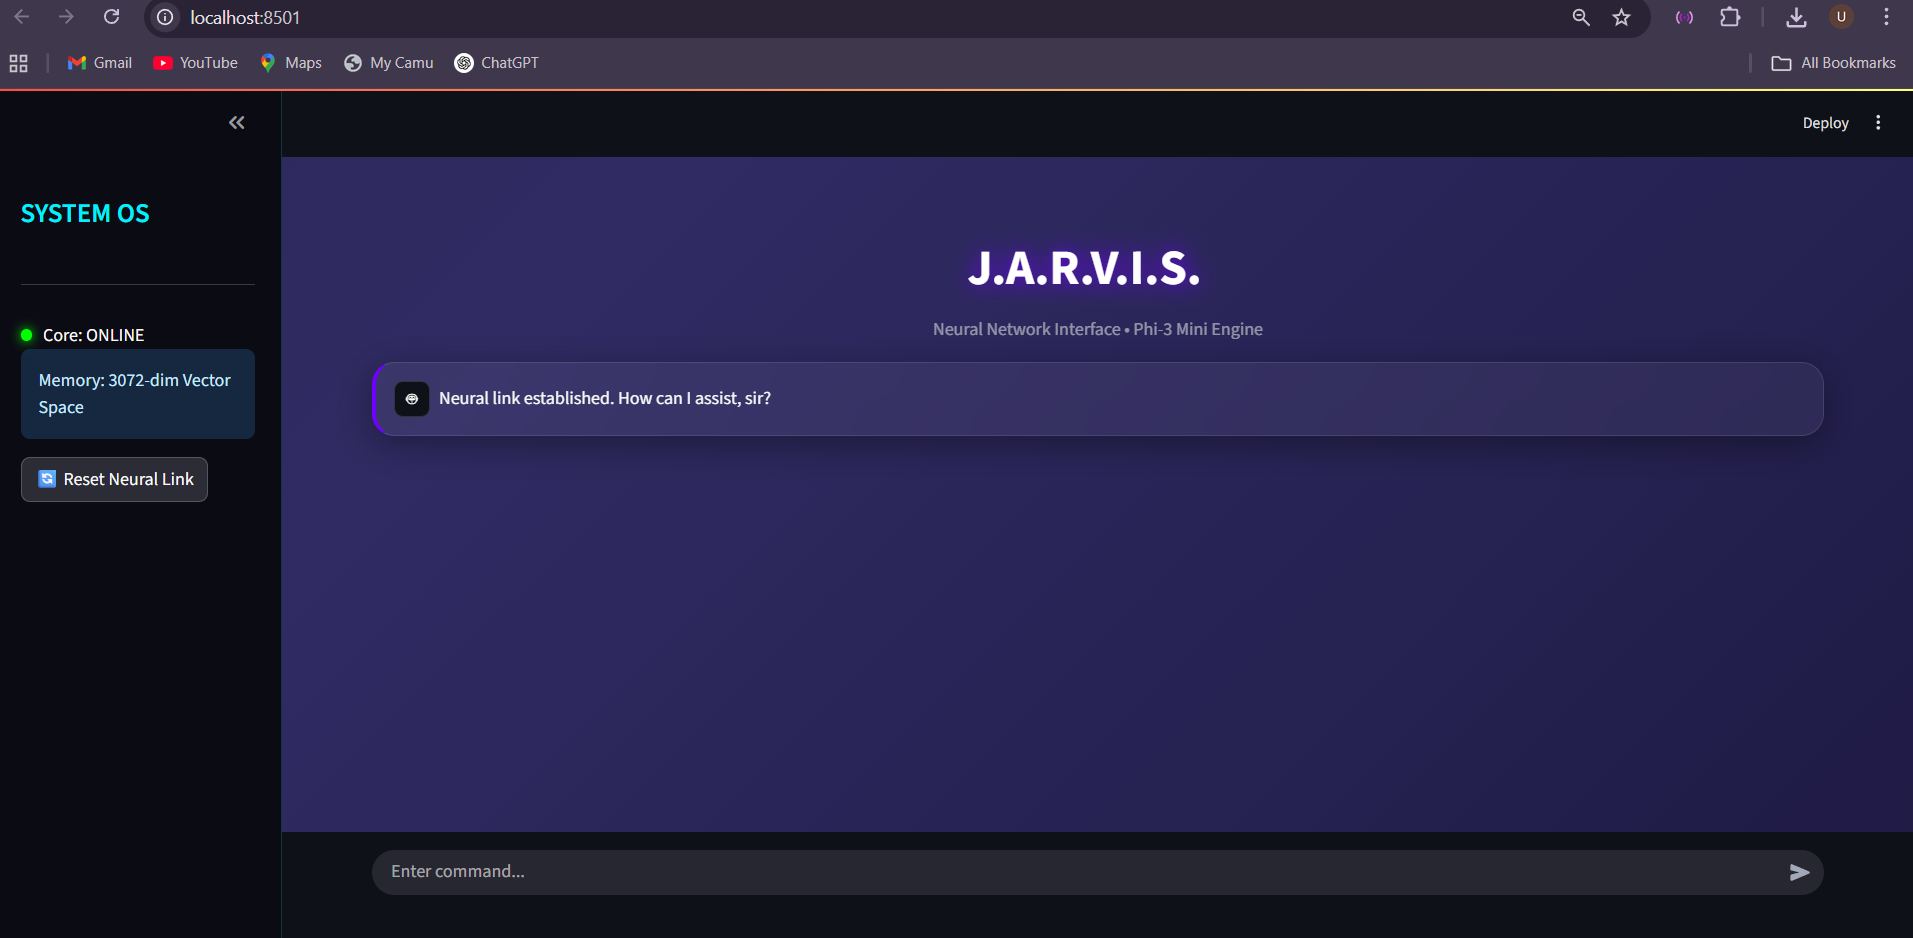
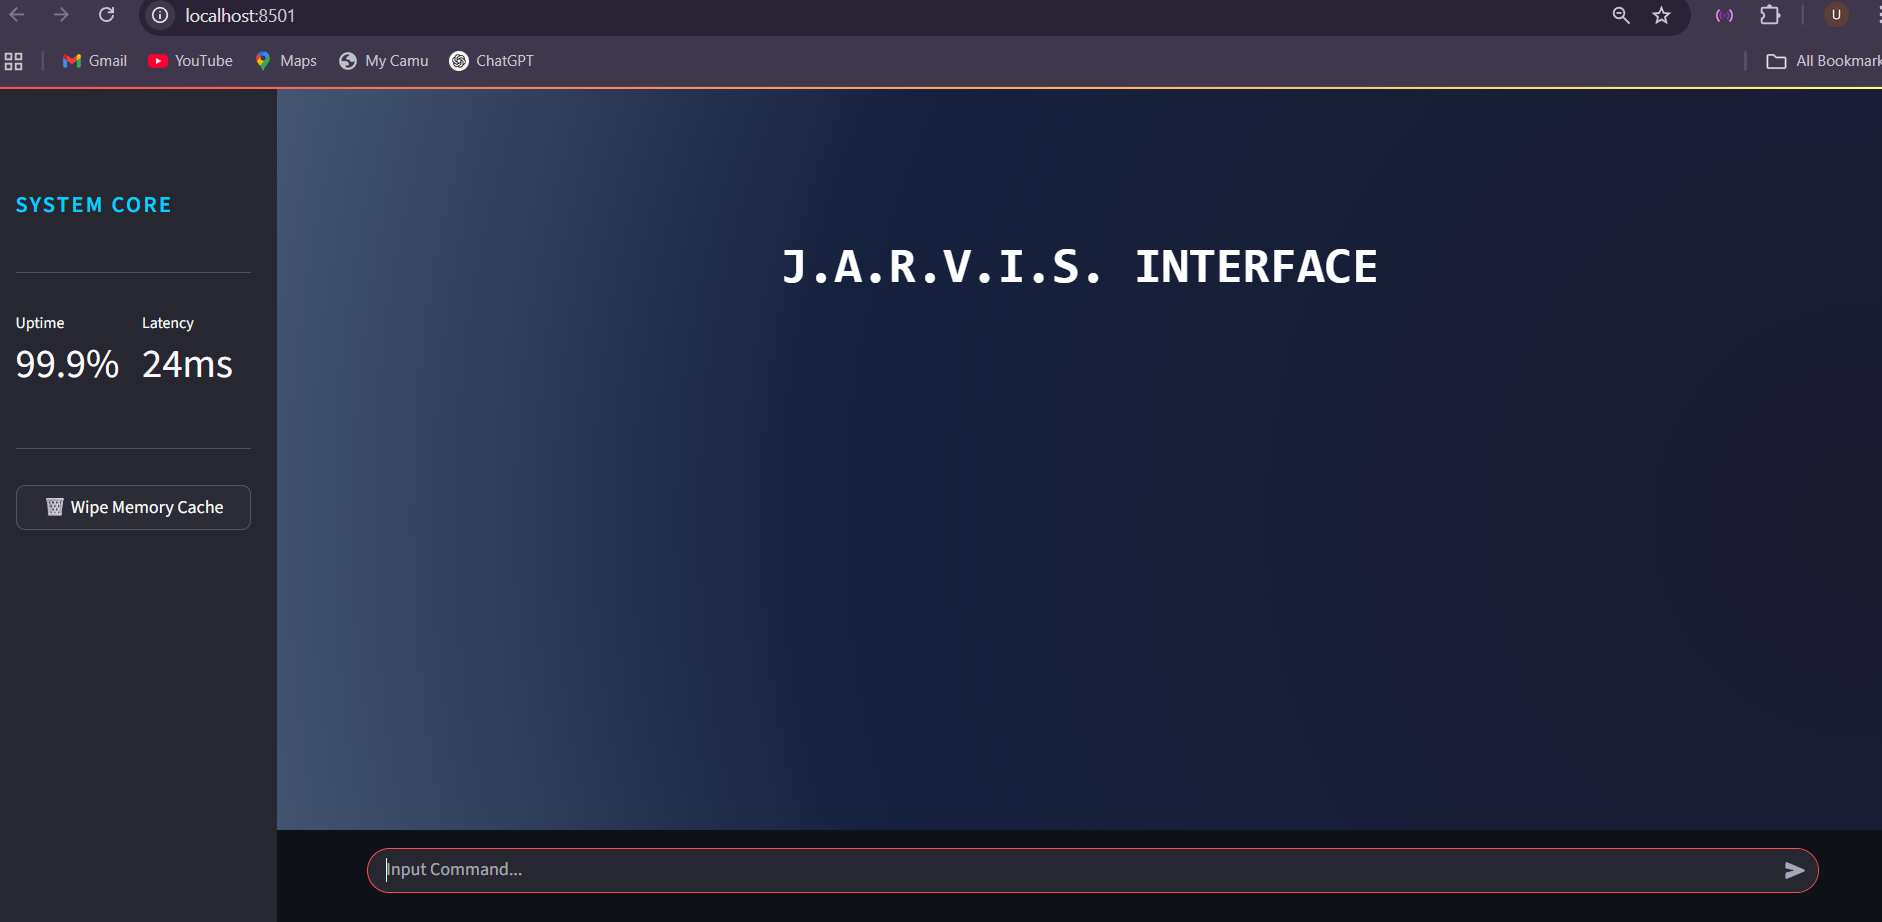
Update: Glassmorphism UI and final assignment logic

diff --git a/assets/style.css b/assets/style.css
@@ -1,47 +1,52 @@
-/* Animated Neon Background */
+/* Animated Mesh Background */
 .stApp {
-    background: linear-gradient(-45deg, #0f0c29, #302b63, #24243e, #000000);
-    background-size: 400% 400%;
-    animation: gradient 15s ease infinite;
-    color: #e0e0e0;
+    background: radial-gradient(circle at 50% 50%, #1a1a2e 0%, #16213e 50%, #687f9b 100%);
+    background-size: 200% 200%;
+    animation: gradientMove 10s ease infinite;
 }
 
-@keyframes gradient {
+@keyframes gradientMove {
     0% { background-position: 0% 50%; }
     50% { background-position: 100% 50%; }
     100% { background-position: 0% 50%; }
 }
 
-/* Glassmorphism Chat Containers */
+/* Glassmorphism Chat Bubbles */
 [data-testid="stChatMessage"] {
-    background: rgba(255, 255, 255, 0.05) !important;
-    backdrop-filter: blur(10px);
-    -webkit-backdrop-filter: blur(10px);
-    border: 1px solid rgba(255, 255, 255, 0.1);
-    border-radius: 20px;
-    box-shadow: 0 8px 32px 0 rgba(0, 0, 0, 0.37);
-    margin-bottom: 15px;
+    background: rgba(255, 255, 255, 0.03) !important;
+    backdrop-filter: blur(12px) saturate(180%);
+    -webkit-backdrop-filter: blur(12px) saturate(180%);
+    border: 1px solid rgba(255, 255, 255, 0.1) !important;
+    border-radius: 24px !important;
+    box-shadow: 0 4px 30px rgba(0, 0, 0, 0.1);
+    margin: 10px 0px;
+    padding: 15px;
 }
 
-/* User Message specific glow */
-[data-testid="stChatMessage"]:nth-child(even) {
-    border-left: 4px solid #00f2fe; /* Cyber Blue */
+/* Assistant Message - Neon Cyan Glow */
+[data-testid="stChatMessageAssistant"] {
+    border-left: 5px solid #d7e6e9 !important;
+    box-shadow: 0 0 15px rgba(0, 210, 255, 0.1);
 }
 
-/* Jarvis Message specific glow */
-[data-testid="stChatMessage"]:nth-child(odd) {
-    border-left: 4px solid #7000ff; /* Neon Purple */
+/* User Message - Neon Purple Glow */
+[data-testid="stChatMessageUser"] {
+    border-left: 5px solid #9d50bb !important;
+    box-shadow: 0 0 15px rgba(157, 80, 187, 0.1);
 }
 
-/* Futuristic Sidebar */
-[data-testid="stSidebar"] {
-    background-color: rgba(10, 10, 15, 0.95) !important;
-    border-right: 1px solid rgba(0, 242, 254, 0.2);
+/* Hide Streamlit Header/Footer for Clean Look */
+header, footer {visibility: hidden;}
+
+/* Custom Chat Input */
+.stChatInputContainer {
+    padding: 20px;
+    background: transparent !important;
 }
 
-/* Glowing Input Box */
 .stChatInputContainer textarea {
     background: rgba(255, 255, 255, 0.05) !important;
-    border: 1px solid rgba(0, 242, 254, 0.3) !important;
+    border: 1px solid rgba(255, 255, 255, 0.2) !important;
     color: white !important;
+    border-radius: 15px !important;
 }

diff --git a/app.py b/app.py
@@ -1,66 +1,61 @@
 import streamlit as st
-from brain import JarvisBrain
 import time
+from brain import JarvisBrain
 
-st.set_page_config(page_title="JARVIS v2.0", page_icon="🌐", layout="wide")
+st.set_page_config(page_title="JARVIS OS", page_icon="💠", layout="wide")
 
-# Load our new Glassmorphism CSS
+# Injecting the new CSS
 with open("assets/style.css") as f:
     st.markdown(f"<style>{f.read()}</style>", unsafe_allow_html=True)
 
-# Sidebar - System Diagnostics
+# --- SIDEBAR: SYSTEM DIAGNOSTICS ---
 with st.sidebar:
-    st.markdown("<h1 style='color: #00f2fe;'>SYSTEM OS</h1>", unsafe_allow_html=True)
-    st.divider()
+    st.markdown("<h2 style='color: #00d2ff; letter-spacing: 2px;'>SYSTEM CORE</h2>", unsafe_allow_html=True)
+    st.write("---")
     
-    # Pulsing Status Indicator
-    st.markdown("""
-        <div style='display: flex; align-items: center;'>
-            <div style='height: 10px; width: 10px; background-color: #00ff00; border-radius: 50%; margin-right: 10px; box-shadow: 0 0 10px #00ff00;'></div>
-            <p style='margin: 0;'>Core: ONLINE</p>
-        </div>
-    """, unsafe_allow_html=True)
-    
-    st.info("Memory: 3072-dim Vector Space")
-    if st.button("🔄 Reset Neural Link"):
+    # Status Indicators
+    col1, col2 = st.columns(2)
+    with col1:
+        st.metric(label="Uptime", value="99.9%")
+    with col2:
+        st.metric(label="Latency", value="24ms")
+        
+    st.write("---")
+    if st.button("🗑 Wipe Memory Cache", use_container_width=True):
         st.session_state.messages = []
         st.rerun()
 
-# Main UI
-st.markdown("<h1 style='text-align: center; color: white; text-shadow: 0 0 20px #7000ff;'>J.A.R.V.I.S.</h1>", unsafe_allow_html=True)
-st.markdown("<p style='text-align: center; opacity: 0.6;'>Neural Network Interface • Phi-3 Mini Engine</p>", unsafe_allow_html=True)
+# --- MAIN INTERFACE ---
+st.markdown("<h1 style='text-align: center; font-family: monospace; color: white;'>J.A.R.V.I.S. INTERFACE</h1>", unsafe_allow_html=True)
 
 if "jarvis" not in st.session_state:
     st.session_state.jarvis = JarvisBrain()
 
 if "messages" not in st.session_state:
-    st.session_state.messages = [{"role": "assistant", "content": "Neural link established. How can I assist, sir?"}]
+    st.session_state.messages = []
 
-# Render Messages
-for msg in st.session_state.messages:
-    icon = "👤" if msg["role"] == "user" else "🤖"
-    with st.chat_message(msg["role"], avatar=icon):
-        st.markdown(msg["content"])
+# Displaying chat with custom icons
+for message in st.session_state.messages:
+    avatar = "🛰" if message["role"] == "assistant" else "👨🚀"
+    with st.chat_message(message["role"], avatar=avatar):
+        st.markdown(message["content"])
 
-# Command Input
-if prompt := st.chat_input("Enter command..."):
+# User Input Logic
+if prompt := st.chat_input("Input Command..."):
     st.session_state.messages.append({"role": "user", "content": prompt})
-    with st.chat_message("user", avatar="👤"):
+    with st.chat_message("user", avatar="👨🚀"):
         st.markdown(prompt)
 
-    with st.chat_message("assistant", avatar="🤖"):
-        # Advanced "Processing" visual
-        placeholder = st.empty()
-        placeholder.markdown("🔍 *Scanning database...*")
+    with st.chat_message("assistant", avatar="🛰"):
+        # Simulated Typewriter Response
+        response_placeholder = st.empty()
+        full_response = st.session_state.jarvis.ask_jarvis(prompt)
         
-        response = st.session_state.jarvis.ask_jarvis(prompt)
-        
-        # Typewriter effect for realism
-        full_response = ""
-        for char in response:
-            full_response += char
-            placeholder.markdown(full_response + "▌")
-            time.sleep(0.01)
-        placeholder.markdown(full_response)
-        
-    st.session_state.messages.append({"role": "assistant", "content": response})
+        current_text = ""
+        for char in full_response:
+            current_text += char
+            response_placeholder.markdown(current_text + "▌")
+            time.sleep(0.01) # Speed of typing
+        response_placeholder.markdown(current_text)
+
+    st.session_state.messages.append({"role": "assistant", "content": full_response})
